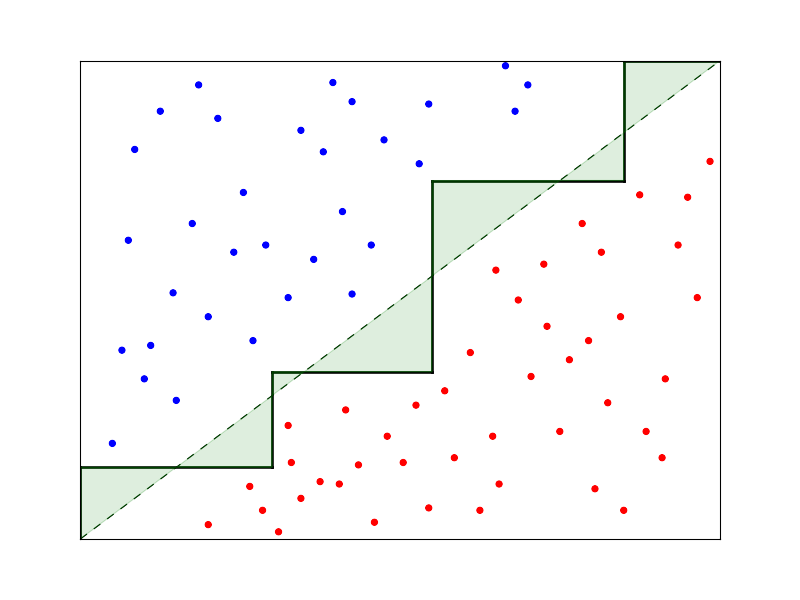
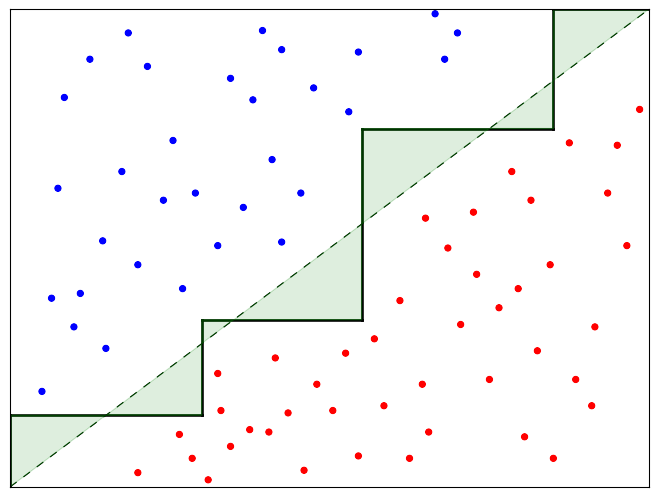
Clean up of boundaries for saved images

diff --git a/src/examples/DecisionTreePartitions.py b/src/examples/DecisionTreePartitions.py
@@ -13,13 +13,11 @@ import linegraph
 import patchplotting
 
 
-def main(treeSaveLocation, partitionSaveLocation):
-    """Create an image that demonstrates the partition induced by a decision tree.
+def main(figureSaveLocation):
+    """Create two images that demonstrate the partition induced by a decision tree.
 
-    @type treeSaveLocation - str
-    @use  treeSaveLocation - The location where the image of the tree will be saved.
-    @type partitionSaveLocation - str
-    @use  partitionSaveLocation - The location where the image of the partitioning will be saved.
+    @type figureSaveLocation - str
+    @use  figureSaveLocation - The location where the figure will be saved.
     """
 
     # Define the decision tree split points and partitions.
@@ -150,7 +148,7 @@ def main(treeSaveLocation, partitionSaveLocation):
     linegraph.graphGeneration(treeEdgesXValues, treeEdgesYValues, currentFigure=currentFigure, markerSizes=[0] * len(treeEdgesYValues), zorders=[-len(nodes)])
     addtext.graphGeneration(edgeCenterXValues, edgeCenterYValues, treeEdgeLabels, currentFigure=currentFigure, sizes=[15] * len(treeEdgeLabels), zorders=list(range(len(treeEdgeLabels))))
     removeTickMarks(treePlot, xAxis=True, yAxis=True)
-    plt.savefig(treeSaveLocation, bbox_inches=0, transparent=True)
+    plt.savefig(figureSaveLocation, bbox_inches='tight', transparent=True)
 
     # Create the plot for the feature space partition.
     currentFigure = plt.figure()
@@ -163,7 +161,7 @@ def main(treeSaveLocation, partitionSaveLocation):
     patchplotting.graphGeneration(rectangles, currentFigure=currentFigure, faceColors=['white'] * len(rectangles), zorders=[-1])
     addtext.graphGeneration(partitionLabelXValues, partitionLabelYValues, partitionLabels, currentFigure=currentFigure, sizes=[20] * len(partitionLabels), zorders=list(range(len(partitionLabels))))
     removeTickMarks(partitionPlot, xAxis=True, yAxis=True)
-    plt.savefig(partitionSaveLocation, bbox_inches=0, transparent=True)
+    plt.savefig(figureSaveLocation + 'Partitions', bbox_inches='tight', transparent=True)
     plt.show()
 
 def setLabels(axes, xLabel='', yLabel=''):
@@ -202,4 +200,4 @@ def removeTickLabels(axes, xAxis=False, yAxis=False):
 
 
 if __name__ == '__main__':
-    main(sys.argv[1], sys.argv[2])
+    main(sys.argv[1])

diff --git a/src/examples/TreeDemo.py b/src/examples/TreeDemo.py
@@ -63,7 +63,8 @@ def main(treeSaveLocation):
     addtext.graphGeneration(nodeCenterXValues, nodeCenterYValues, nodeLabels, currentFigure=currentFigure, sizes=[15] * len(nodeLabels), zorders=list(range(len(nodeLabels))))
     linegraph.graphGeneration(treeEdgesXValues, treeEdgesYValues, currentFigure=currentFigure, markerSizes=[0] * len(treeEdgesYValues), zorders=[-len(nodes)])
     removeTickMarks(treePlot, xAxis=True, yAxis=True)
-    plt.savefig(treeSaveLocation, bbox_inches=0, transparent=True)
+
+    plt.savefig(treeSaveLocation, bbox_inches='tight', transparent=True)
 
 def setLabels(axes, xLabel='', yLabel=''):
     """Set the X and Y labels of the axes.

diff --git a/src/examples/DecisionTreeStepBoundary.py b/src/examples/DecisionTreeStepBoundary.py
@@ -11,7 +11,7 @@ import linegraph
 import scatterplot
 
 def main(figureSaveLocation):
-    """
+    """Create an image that demonstrates the difference between the step boundary of a decision tree and the boundary induced by an SVM.
     """
 
     # Define the image size.
@@ -139,7 +139,7 @@ def main(figureSaveLocation):
     for ax in currentFigure.get_axes():
         removeTickMarks(ax, xAxis=True, yAxis=True)
 
-    plt.savefig(figureSaveLocation, bbox_inches=0, transparent=True)
+    plt.savefig(figureSaveLocation, bbox_inches='tight', transparent=True)
     plt.show()
 
 def goodHyperlpaneDividing(x=None, y=None):

diff --git a/src/examples/SVMHyperplaneComparison.py b/src/examples/SVMHyperplaneComparison.py
@@ -11,7 +11,7 @@ import linegraph
 import scatterplot
 
 def main(figureSaveLocation):
-    """
+    """Create an image that demonstrates the impact of maximising the margin in an SVM.
     """
 
     # Define the image size.
@@ -194,7 +194,7 @@ def main(figureSaveLocation):
         setLabels(ax, xLabel=currentLabel)
         ax.xaxis.set_label_coords(0.5, -0.025)
 
-    plt.savefig(figureSaveLocation, bbox_inches=0, transparent=True)
+    plt.savefig(figureSaveLocation, bbox_inches='tight', transparent=True)
     plt.show()
 
 def goodHyperlpaneDividing(x=None, y=None):

diff --git a/src/examples/HughesPhenomenon.py b/src/examples/HughesPhenomenon.py
@@ -9,7 +9,7 @@ sys.path.insert(0, parent_dir)
 import linegraph
 
 def main(imageSaveLocation):
-    """Create an image illustrating the hughes phenomenon.
+    """Create an image illustrating the Hughes phenomenon.
     """
 
     # Create the lines for the graph.
@@ -23,7 +23,7 @@ def main(imageSaveLocation):
     plot.set_ylabel('Classifier Performance')
     removeTickMarks(plot, xAxis=True, yAxis=True)
 
-    plt.savefig(imageSaveLocation, bbox_inches=0, transparent=True)
+    plt.savefig(imageSaveLocation, bbox_inches='tight', transparent=True)
     plt.show()
 	
 

diff --git a/src/examples/DecisionTreeSplitting.py b/src/examples/DecisionTreeSplitting.py
@@ -166,7 +166,7 @@ def main(figureSaveLocation):
         setLabels(ax, xLabel=currentLabel)
         ax.xaxis.set_label_coords(0.5, -0.025)
 
-    plt.savefig(figureSaveLocation, bbox_inches=0, transparent=True)
+    plt.savefig(figureSaveLocation, bbox_inches='tight', transparent=True)
     plt.show()
 
 def setLabels(axes, xLabel='', yLabel=''):

diff --git a/src/examples/kNNDemo.py b/src/examples/kNNDemo.py
@@ -137,7 +137,7 @@ def main(figureSaveLocation):
         setLabels(ax, xLabel=currentLabel)
         ax.xaxis.set_label_coords(0.5, -0.025)
 
-    plt.savefig(figureSaveLocation, bbox_inches=0, transparent=True)
+    plt.savefig(figureSaveLocation, bbox_inches='tight', transparent=True)
     plt.show()
 
 def setLabels(axes, xLabel='', yLabel=''):

diff --git a/src/examples/SVMKernelDemo.py b/src/examples/SVMKernelDemo.py
@@ -14,7 +14,7 @@ import scatterplot3D
 import surface3D
 
 def main(figureSaveLocation):
-    """
+    """Create an image that demonstrates the use of a kernel to classify non-linear data.
     The hyperplane in the 3D plot sometimes appears without its edge colour. If you want the edge colour, then run the script until it appears.
     """
 

diff --git a/src/examples/SVMClassSeparation.py b/src/examples/SVMClassSeparation.py
@@ -67,7 +67,7 @@ def main(imageSaveLocation):
 
     removeTickMarks(plot, xAxis=True, yAxis=True)
 
-    plt.savefig(imageSaveLocation, bbox_inches=0, transparent=True)
+    plt.savefig(imageSaveLocation, bbox_inches='tight', transparent=True)
     plt.show()
 
 
